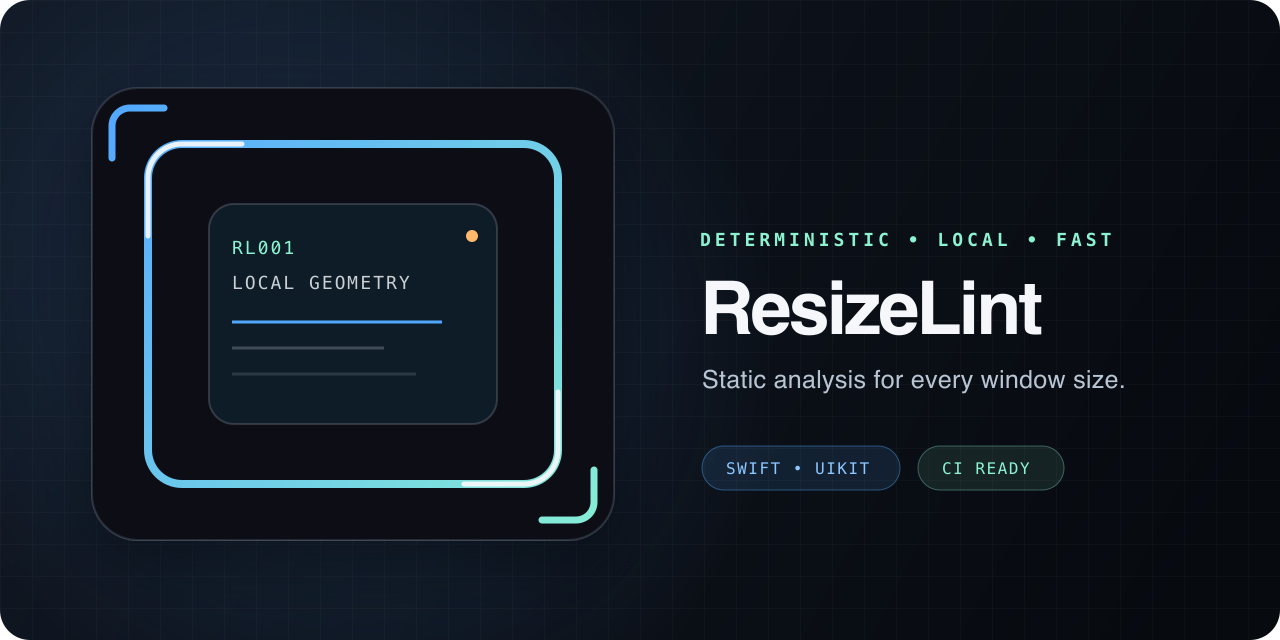
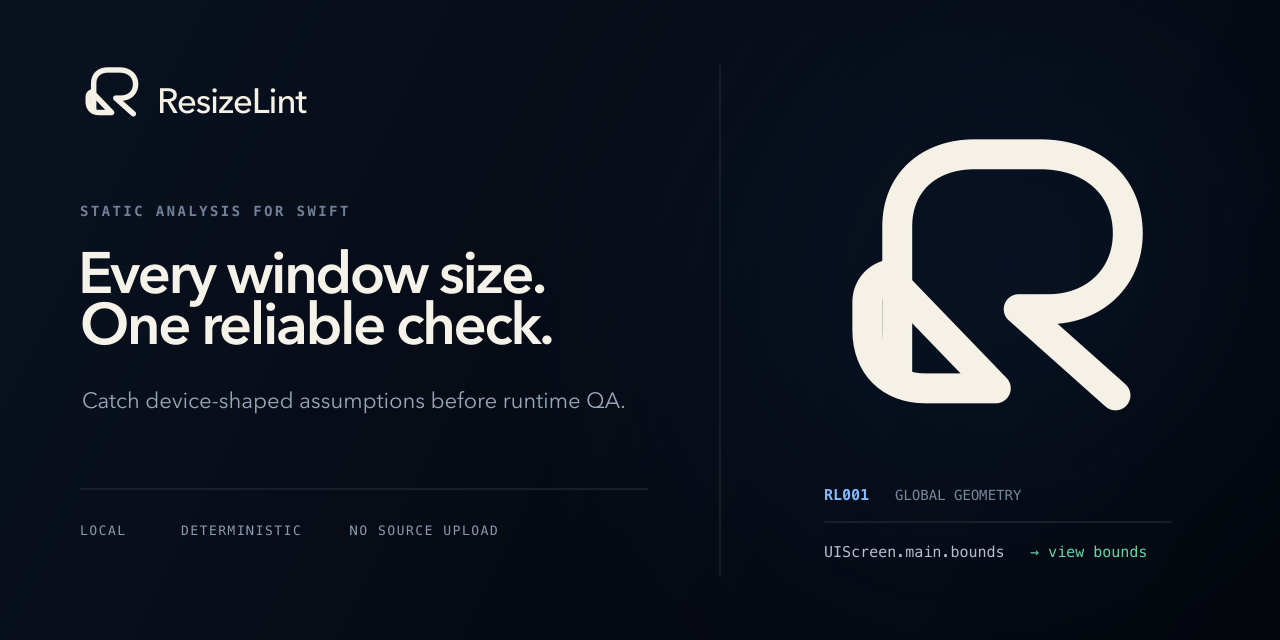
Polish public brand and README

diff --git a/README.md b/README.md
@@ -1,23 +1,34 @@
 <p align="center">
-  <img src="Assets/resizelint-mark.svg" width="112" height="112" alt="ResizeLint window-frame mark">
+  <img src="Assets/resizelint-logo.svg" width="560" alt="ResizeLint — static analysis for adaptive Swift layouts">
 </p>
-
-<h1 align="center">ResizeLint</h1>
 
 <p align="center"><strong>Catch the UIKit assumptions that break resizable iPhone apps.</strong></p>
 
-ResizeLint is the deterministic verification layer for Swift apps that need to work in every window size.
+<p align="center">
+  <a href="#installation">Install</a> ·
+  <a href="#20-second-terminal-demo">See it run</a> ·
+  <a href="Docs/Rules/README.md">Browse rules</a> ·
+  <a href="Docs/CLI.md">CLI reference</a>
+</p>
+
+ResizeLint is a local static analyzer for Swift applications that must remain correct when the window no longer matches the physical device. It finds layout decisions built on process-global or device-shaped assumptions—such as `UIScreen.main` bounds, device idiom, interface orientation, and arbitrary global windows—and points to scene-local or container-driven alternatives.
+
+It scans Swift source, property lists, and Xcode project metadata, then produces stable diagnostics for people and automation. Human and Xcode output make findings easy to fix locally; JSON and SARIF integrate with CI and code scanning. Analysis is deterministic, source stays on the machine, and ResizeLint has no daemon, account, telemetry, or cloud service.
+
+- **Focused:** nine high-confidence rules for UIKit geometry, scene lifecycle, and adaptive layout decisions.
+- **Adoptable:** baselines, scoped suppressions, severity overrides, and one deliberately conservative safe fix.
+- **Automation-ready:** stable rule IDs, reproducible ordering, machine-readable reports, and a checksum-verifying GitHub Action.
 
 ## Installation
 
-Homebrew installation is available with the 1.0 release:
+Homebrew installation becomes available with the signed 1.0 release:
 
 ```bash
 brew install mikonyaa/tap/resizelint
 resizelint version
 ```
 
-Build the current source checkout with Swift 6.3.3:
+Until then, build the current source checkout with Swift 6.3.3:
 
 ```bash
 git clone https://github.com/mikonyaa/ResizeLint.git
@@ -26,7 +37,7 @@ swift build -c release
 .build/release/resizelint version
 ```
 
-ResizeLint supports macOS 14 or newer and Ubuntu 22.04 or newer on x86_64.
+ResizeLint supports macOS 14 or newer on Apple silicon and Intel, plus Ubuntu 22.04 or newer on x86_64.
 
 ## 20-second terminal demo
 
@@ -36,25 +47,35 @@ Sources/GalleryView.swift:42:21: error: [RL001] UIScreen.main bounds do not desc
 Sources/GridViewController.swift:18:17: warning: [RL006] Choose layout from size classes or the actual container size, not the device idiom.
 ```
 
-![Terminal showing ResizeLint diagnostics for a legacy gallery](Assets/terminal-demo.png)
+![A dark terminal showing a local ResizeLint run, an RL001 error, its scene-local remediation, and a concise summary](Assets/terminal-demo.png)
 
 ## Why resizing matters
 
-A phone interface can now appear in window configurations that do not match the physical display. Screen-wide bounds, device idiom, interface orientation, and globally selected windows are therefore unreliable layout inputs. ResizeLint checks these assumptions with stable diagnostics that can run locally, in Xcode, or in CI.
+A phone interface can appear in a window whose size, aspect ratio, and environment do not match the physical display. Code that asks “what device is this?” can therefore choose the wrong layout even though it compiled and looked correct in a full-screen simulator.
+
+Adaptive code asks the container instead: view bounds for geometry, traits for presentation choices, and scene-local objects for windows and display context. ResizeLint detects the most consequential global assumptions and explains the narrower input that should replace each one. The same checks run locally, in Xcode, and in CI, so resizing regressions can be blocked before runtime QA.
 
 ResizeLint does not rewrite app architecture and does not upload source. It can verify manual modernization work or changes produced by automated modernization tools.
 
 ## Rules
 
-- **RL001 · error · main-screen-bounds** — flags `UIScreen.main` bounds used as local layout geometry.
-- **RL002 · warning · main-screen-scale** — prefers trait or scene-local display scale.
-- **RL003 · warning · main-screen-reference** — catches remaining `UIScreen.main` dependencies.
-- **RL004 · error · global-window-access** — rejects arbitrary global current-window selection.
-- **RL005 · error · global-status-bar-geometry** — replaces process-global status-bar geometry with scene-local context.
-- **RL006 · warning · idiom-layout-decision** — finds phone/pad checks that drive layout.
-- **RL007 · warning · orientation-layout-decision** — finds orientation checks that drive layout.
-- **RL008 · error · legacy-app-lifecycle** — reports a proven app-level absence of scene lifecycle.
-- **RL009 · info · fullscreen-requirement-review** — requests a deliberate review of full-screen requirements.
+### Errors
+
+- **RL001 · main-screen-bounds** — flags `UIScreen.main` bounds used as local layout geometry.
+- **RL004 · global-window-access** — rejects arbitrary process-global current-window selection.
+- **RL005 · global-status-bar-geometry** — replaces global status-bar geometry with scene-local context.
+- **RL008 · legacy-app-lifecycle** — reports a proven app-level absence of scene lifecycle.
+
+### Warnings
+
+- **RL002 · main-screen-scale** — prefers trait or scene-local display scale.
+- **RL003 · main-screen-reference** — catches remaining `UIScreen.main` dependencies.
+- **RL006 · idiom-layout-decision** — finds phone/pad checks that drive layout.
+- **RL007 · orientation-layout-decision** — finds orientation checks that drive layout.
+
+### Review
+
+- **RL009 · fullscreen-requirement-review** — requests a deliberate review of full-screen requirements.
 
 See [the complete rule documentation](Docs/Rules/README.md) for detection boundaries and adaptive examples. The release candidate reached 100% error and warning precision on the documented [external validation corpus](Docs/ExternalCorpus.md).
 

diff --git a/Docs/Brand.md b/Docs/Brand.md
@@ -1,31 +1,33 @@
-# Measured Flex
+# Brand system
 
-Measured Flex treats space as evidence. Frames expand, contract, and overlap
-without losing their internal order; the empty areas between them carry as much
-meaning as the forms themselves. Every interval is calibrated, every alignment
-meticulously crafted, and every visual relationship feels intentionally tested
-rather than merely arranged.
+ResizeLint uses a restrained identity named **Precision Signal**. Its mark is a
+single continuous line shaped into an adaptive `R`: the upper loop suggests a
+container changing size, while the lower loop keeps the form stable and
+recognizable. The production mark has no colored interruption. It must remain
+one coherent silhouette in monochrome and stay legible at small sizes.
 
-Color behaves like a diagnostic signal within a quiet material field. Deep ink
-and mineral gray establish concentration, while precise blue and mint accents
-identify change, confidence, and resolution. The palette is restrained enough
-to make each chromatic event consequential, with painstaking attention paid to
-contrast and the rhythm of repetition.
+Deep navy (`#050A14`) and warm ivory (`#F6F1E6`) carry the core identity. Blue,
+mint, and coral are diagnostic colors, reserved for rule IDs, success states,
+and errors inside product output. They do not appear inside the logo. This
+separation keeps the mark calm while allowing terminal and report surfaces to
+communicate status immediately.
 
-Scale communicates adaptation. Large rounded structures establish a calm
-container; smaller frames, corner marks, and measured rules create a patient
-sequence of observations. The composition should feel like the product of deep
-expertise: dense where comparison matters, generous where understanding needs
-room, and never decorative without purpose.
+Typography is direct and functional. Product names and headlines use a clean
+system grotesk; commands, paths, rule IDs, and measurements use the platform
+monospaced stack. Supporting text stays sparse, with enough space for the mark
+and diagnostic evidence to remain the dominant elements.
 
-Typography enters as an instrument, not a narrator. A clean grotesk provides
-the primary voice, while a disciplined monospaced face carries identifiers and
-measurements. Words remain sparse and exact, integrated into the geometry with
-master-level execution so the visual system communicates before the text is
-read.
+## Assets
 
-Balance comes from controlled asymmetry. One area may hold a concentrated
-cluster of evidence while another remains nearly silent, yet the whole stays
-stable through shared baselines and repeated radii. The final work must reward
-close inspection: refined through countless small decisions, visibly labored
-over with care, and resolved with the confidence of top-tier craftsmanship.
+- `resizelint-mark.svg` is the canonical transparent vector mark.
+- `resizelint-mark.png` is the 512-pixel raster fallback.
+- `resizelint-logo.svg` is the canonical horizontal hero lockup.
+- `resizelint-logo.png` is the high-resolution raster fallback.
+- `terminal-demo.svg` and `terminal-demo.png` show real human-format output on
+  a full dark canvas with no white surround.
+- `social-preview.svg` and `social-preview.png` are the 1280×640 repository
+  preview assets.
+
+Do not add an app-tile container, colored cut, glow, 3D effect, Apple logo, or
+endorsement language to the mark. Preserve generous clear space and use the
+provided assets rather than redrawing the geometry.

diff --git a/CHANGELOG.md b/CHANGELOG.md
@@ -13,6 +13,11 @@ All notable changes to ResizeLint are documented here. The project follows seman
 - macOS and Linux release preparation, a composite Action, and a source-build Homebrew formula.
 - ResizeLab, a simulator-only legacy/adaptive example.
 
+### Changed
+
+- Refined the public brand system, README explanation, terminal demonstration,
+  and social preview for a clearer 1.0 presentation.
+
 ### Security
 
 - Bounded input reads, root-confined path handling, symbolic-link rejection for writes, terminal escaping, cancellation checks, and interrupted-write recovery.